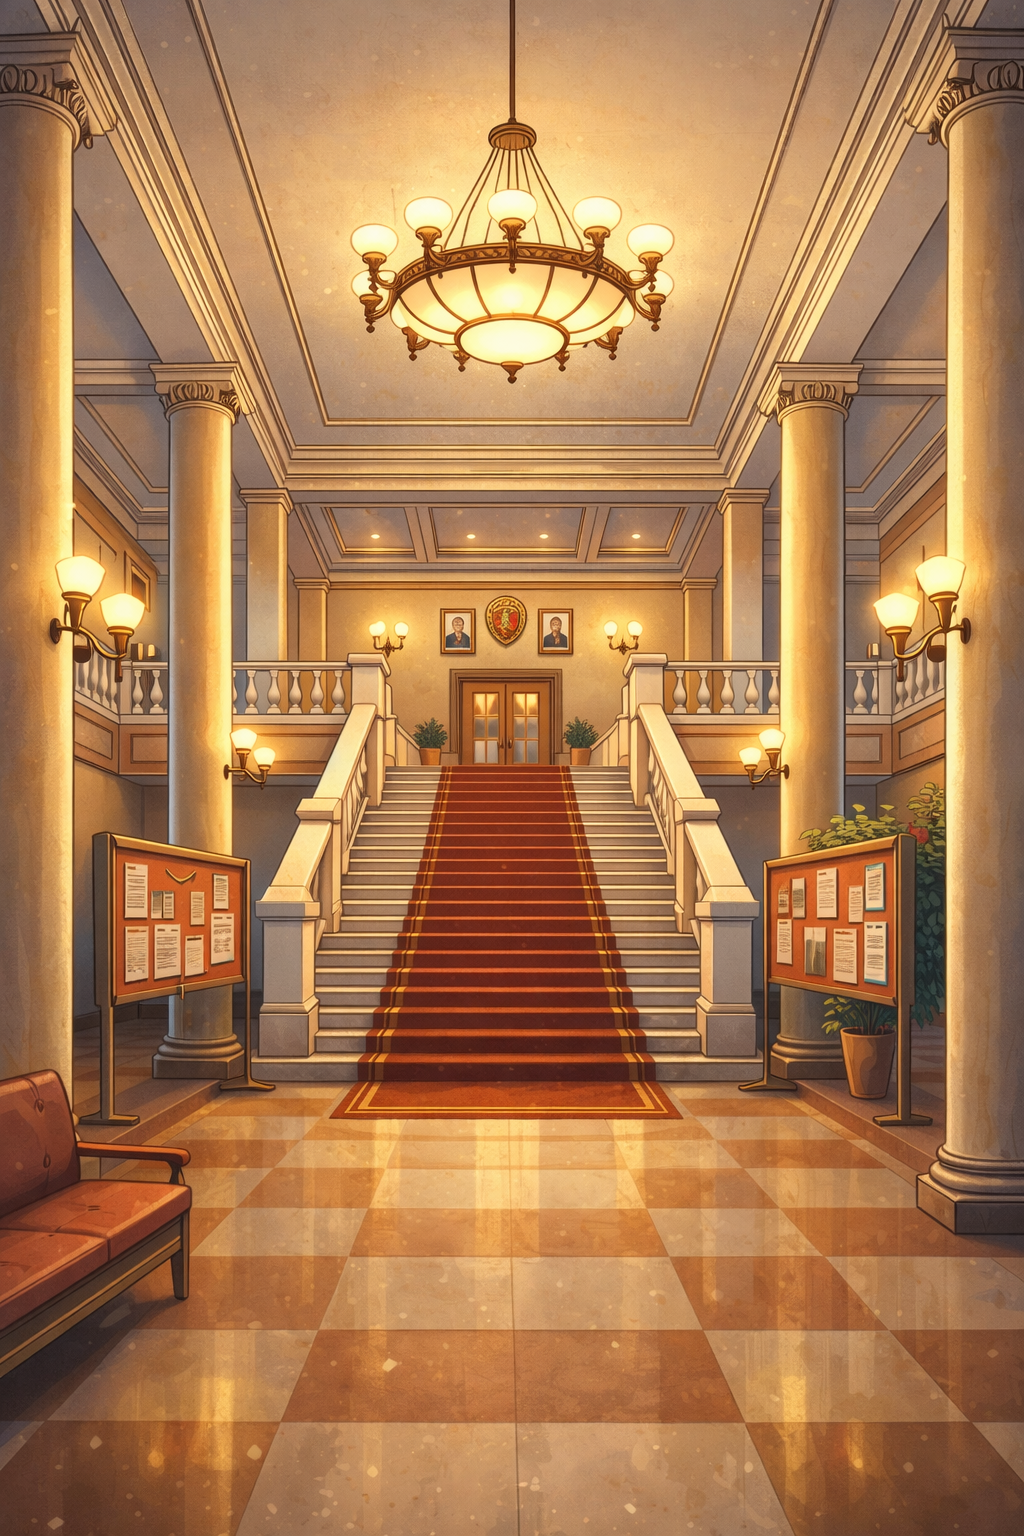
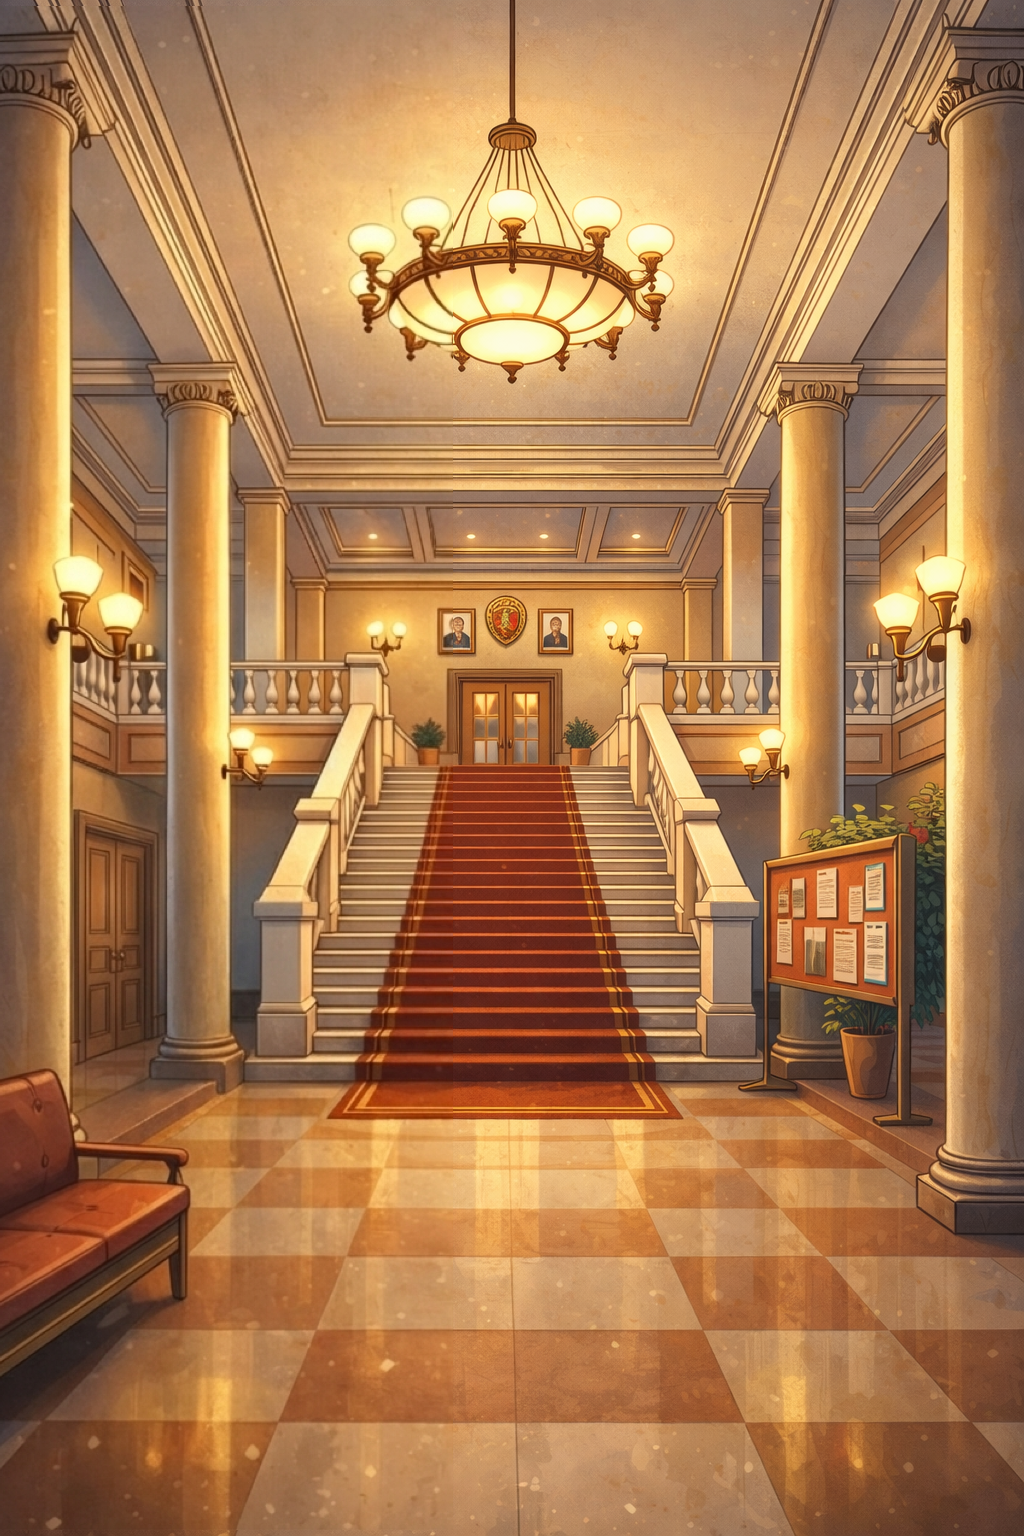
Refactor university_hall scene: remove old actions and add new door and corridor objects with updated interactions

diff --git a/src/data/scenes/university_hall.ts b/src/data/scenes/university_hall.ts
@@ -11,48 +11,7 @@ const scene: StateNode = {
       },
     ],
   },
-  actions: [
-    {
-      text: "Туалет",
-      guards: [
-        {
-          if: "daily.used_toilet_uni",
-          effects: [
-            {
-              message: "Я уже забегала сюда сегодня.",
-            },
-          ],
-        },
-        {
-          if: "daily.used_toilet_home",
-          effects: [
-            {
-              message: "Ладно, надо было сходить дома. Теперь поздно.",
-            },
-          ],
-        },
-      ],
-      effects: [
-        {
-          goto: "uni_toilet",
-        },
-      ],
-    },
-    {
-      text: "Аудитория 404",
-      guard: "persistent.knows_schedule",
-      failed_effects: [
-        {
-          message: "Хм… Я ведь так и не посмотрела расписание.",
-        },
-      ],
-      effects: [
-        {
-          goto: "lecture_hall",
-        },
-      ],
-    },
-  ],
+  actions: [],
   objects: [
     {
       name: "Парень",
@@ -96,6 +55,69 @@ const scene: StateNode = {
           effects: [
             {
               goto: "university_hall_corner",
+            },
+          ],
+        },
+      ],
+    },
+    {
+      name: "Дверь в туалет",
+      description: "Дверь в женский туалет",
+      boundingBox: {
+        x: 0.05,
+        y: 0.51,
+        width: 0.13,
+        height: 0.18,
+      },
+      actions: [
+        {
+          text: "Войти",
+          guards: [
+            {
+              if: "daily.used_toilet_home",
+              effects: [
+                {
+                  message: "Не хочется.",
+                },
+              ],
+            },
+          ],
+          effects: [
+            {
+              goto: "uni_toilet",
+            },
+          ],
+        },
+      ],
+    },
+    {
+      name: "К аудиториям",
+      description: "Проход к аудиториям университета",
+      boundingBox: {
+        x: 0.34,
+        y: 0.42,
+        width: 0.32,
+        height: 0.28,
+      },
+      actions: [
+        {
+          text: "Идти на занятия",
+          effects: [
+            {
+              goto: "lecture_hall",
+            },
+          ],
+          guards: [
+            {
+              if: {
+                not: "persistent.knows_schedule",
+              },
+              effects: [
+                {
+                  message:
+                    "Я не знаю, в какой аудитории сегодня занятие. Подожду тут одногруппниц.",
+                },
+              ],
             },
           ],
         },
